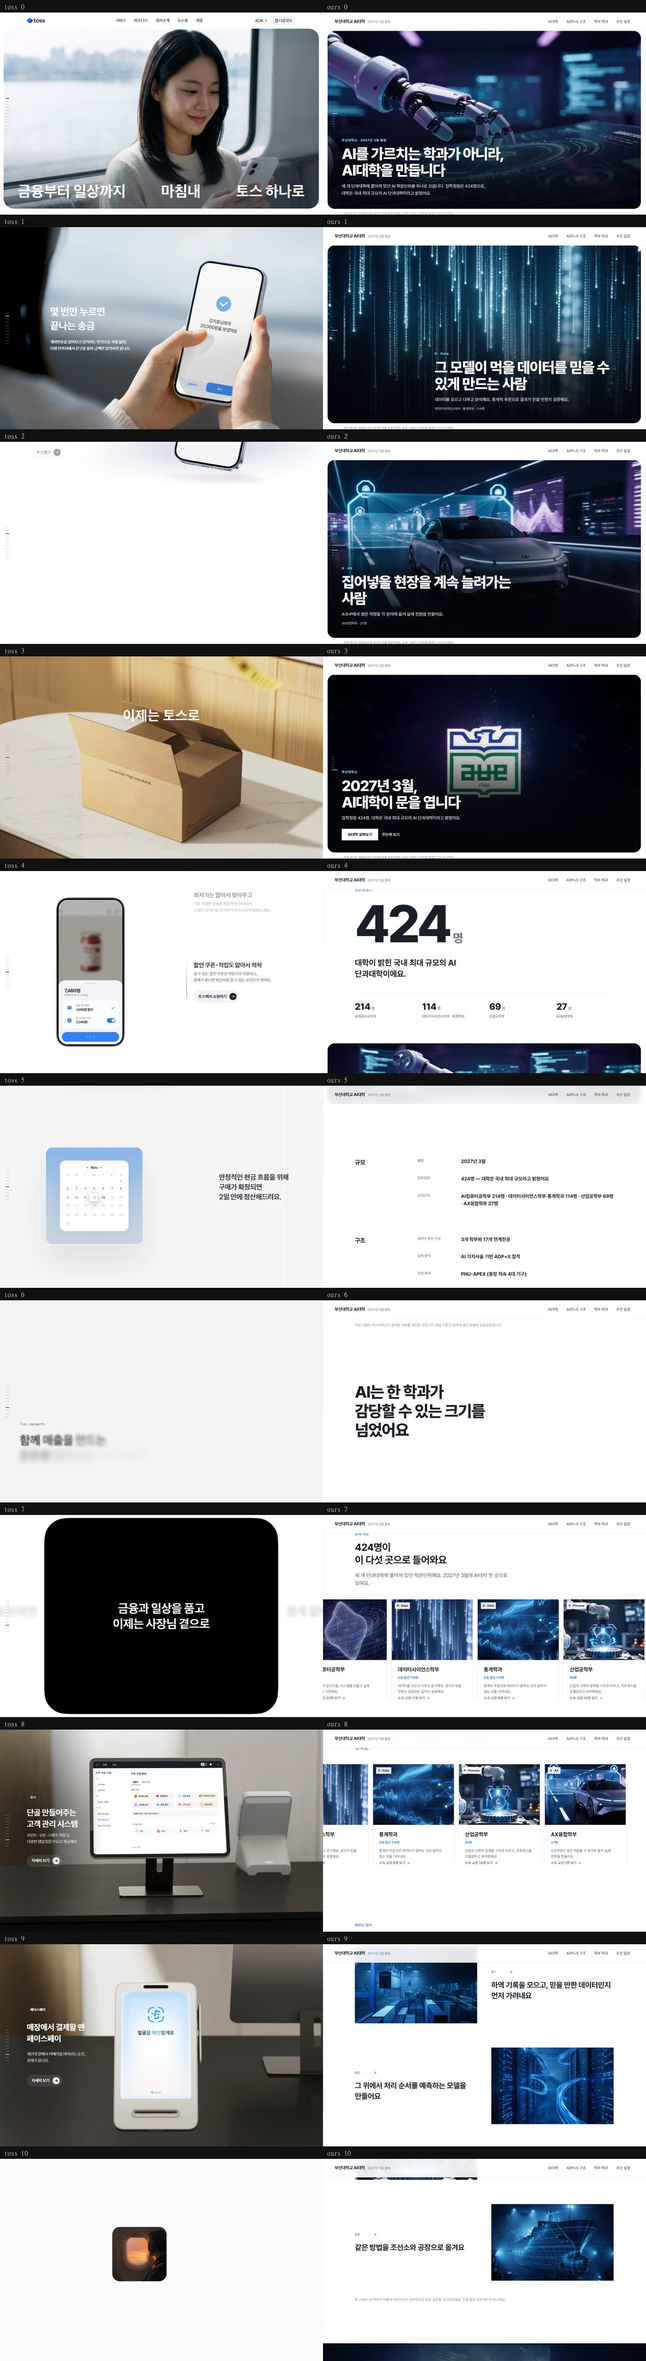
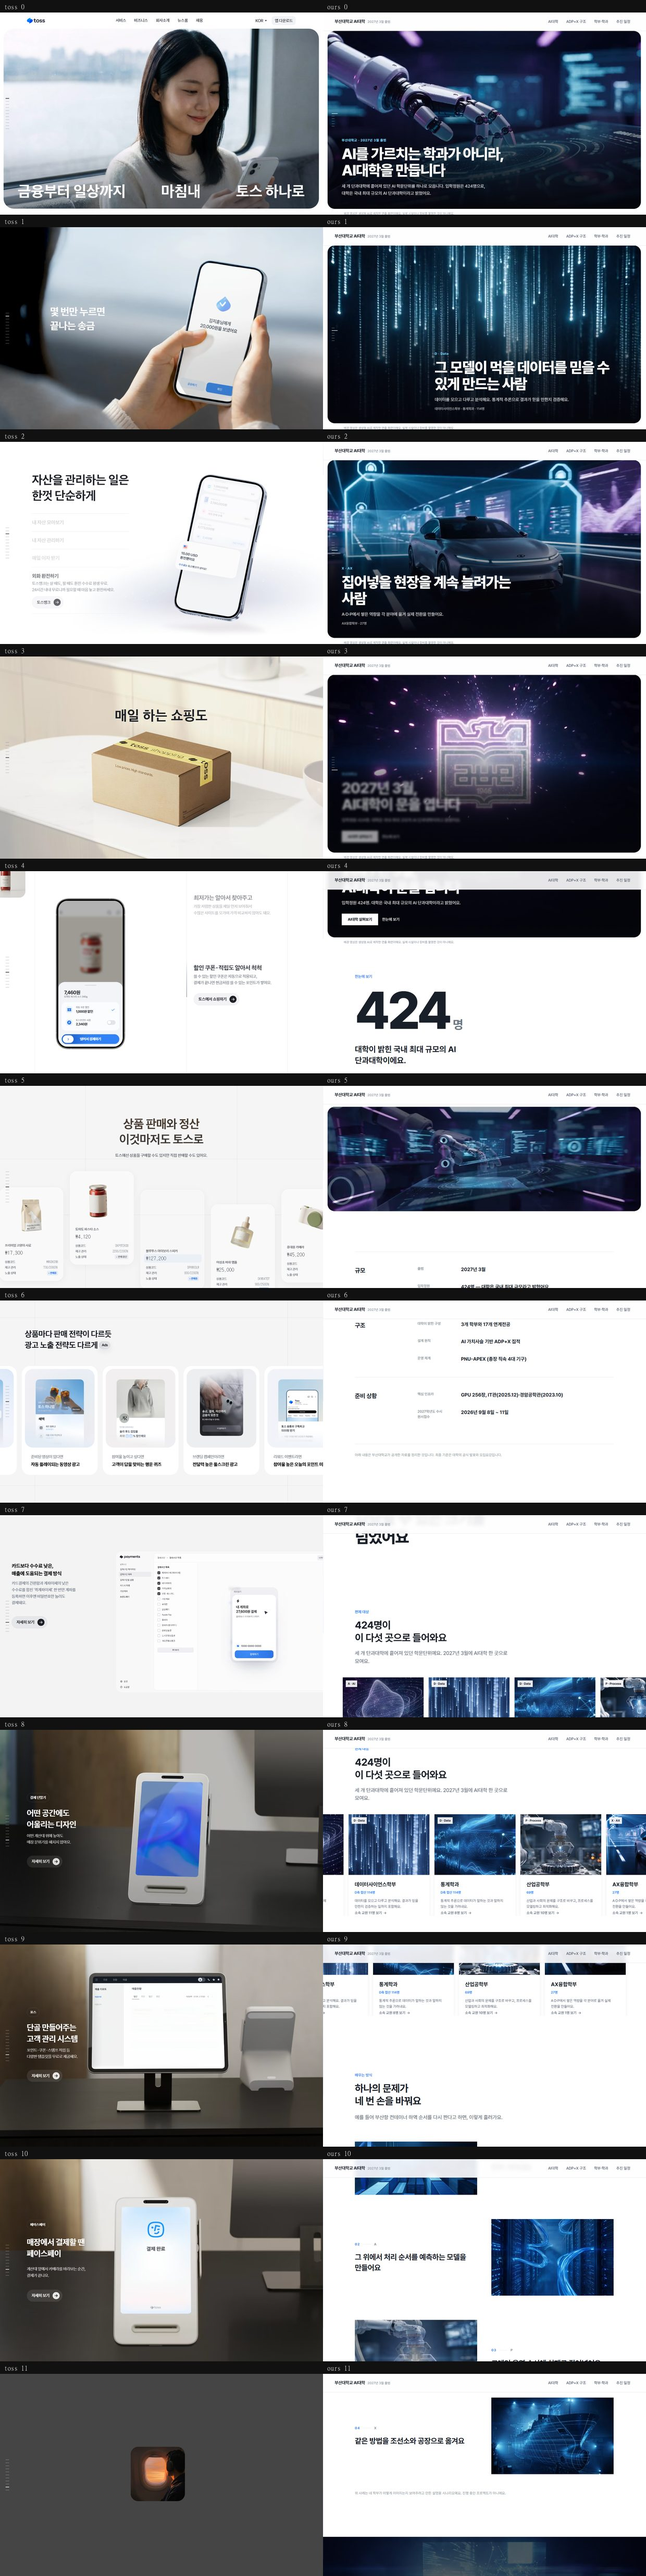
홈에 추진 일정을 넣는다
이 페이지는 「2027년 3월 출범」을 첫 화면부터 마지막 화면까지 내세우는데,
거기까지 어떻게 가는지는 홈에서 한 번도 말하지 않았다. 추진 일정이
/ai-college/roadmap 안쪽에만 있었다.

13회차에 히어로를 41% → 33% 로 줄이면서 "히어로를 더 줄이는 대신 뒤쪽 절을
늘리는 쪽이 남은 길" 이라고 적어뒀다. 그 첫 번째다.

[구도] 서브페이지는 이미 점과 선으로 잇는 세로 타임라인이다. 홈에서 같은
그림을 또 그리면 두 화면이 겹친다. 여기서는 행마다 왼쪽 여백을 8% 씩 밀어
계단으로 세운다. 2027 행만 브랜드색 선과 글자로 도드라지게 뒀다.

5열 그리드로 가로로 늘어놓는 안도 재봤는데 1280 폭에서 한 칸이 236px 라
한국어 본문이 서너 글자마다 끊긴다. 계단은 각 행이 폭을 다 쓴다. 좁은
화면에서는 들여쓰기를 걷는다 — 세로로 쌓인 상태에서 들여쓰기가 남으면
계단이 아니라 어긋난 목록으로 보인다.

앞에 roadmap_path 띠를 둔다. 11회차에 생성해두고 홈에서는 쓰지 않던
자산인데, 다섯 표식이 점점 커지며 올라가는 그림이라 아래 계단과 형태가
맞물린다.

[구조 정리] 마무리(강의실)를 ImpactScene 에서 ClosingScene 으로 분리했다.
추진 일정이 마무리 앞에 들어가야 하는데 둘이 한 파일에 있어 순서를 바꿀 수
없었다. 마무리는 페이지의 끝이다.

[곁가지] ImpactScene 의 alt 가 아직 "청록 경로선" 이라고 적혀 있었다.
11회차에 색을 브랜드 블루로 옮겼으니 화면에 없는 색이다. "파란" 으로 고쳤다.

Claude-Session: https://claude.ai/code/session_01DneFDYxx25DjwNJdj8uLH7

diff --git a/src/scenes/ImpactScene.jsx b/src/scenes/ImpactScene.jsx
@@ -16,16 +16,6 @@ import { useReducedMotion } from '../hooks/useMedia'
  *                    타일이다. 보여줄 제품 화면이 없다.
  *   근거 강도       : 직접관찰(프레임)
  *
- * [사람으로 닫는다] 마지막에 실제 사람이 있는 장면을 통으로 넣는다
- *   toss 씬        : 「토스가 바꾼 일상」
- *   캡처 파일       : assets/gap/home.jpg 행 6 (toss 열)
- *   원본에서 본 것  : 기능 설명이 끝난 뒤 마지막 화면이 사람 사진 넉 장이다.
- *                    앞의 모든 화면이 제품인데 끝은 사람이다.
- *   바꾼 것과 이유  : 우리 페이지에는 사람이 한 명도 없었다. 대학 홍보
- *                    페이지에서 이건 그 자체로 결함이다. toss 는 사진 넉 장을
- *                    쓰지만 우리는 강의실 한 장면을 통으로 쓴다. 앞 절이 이미
- *                    카드 줄이라 카드를 또 놓으면 같은 화면이 두 번 된다.
- *   근거 강도       : 직접관찰(프레임)
  *
  * ── 왜 이 절이 필요했나 ──────────────────────────────────────────────────
  * 배포본을 7단계로 재니 우리 행 0~3 이 전부 어두운 전면 영상이었다. 네 화면
@@ -45,10 +35,10 @@ import { useReducedMotion } from '../hooks/useMedia'
  *   X 조선소로 확산  → 조선소 도크
  */
 const MEDIA = {
-  D: { slug: 'port_crane_v', alt: '야간 컨테이너 터미널. 갠트리 크레인이 컨테이너를 내리고 청록 경로선이 야드 위를 흐른다.' },
-  A: { slug: 'gpu_rack_v', alt: '서버랙이 늘어선 냉복도. 청록 상태 표시등이 줄지어 깜빡인다.' },
+  D: { slug: 'port_crane_v', alt: '야간 컨테이너 터미널. 갠트리 크레인이 컨테이너를 내리고 파란 경로선이 야드 위를 흐른다.' },
+  A: { slug: 'gpu_rack_v', alt: '서버랙이 늘어선 냉복도. 파란 상태 표시등이 줄지어 깜빡인다.' },
   P: { slug: 'axis_p', alt: '산업용 로봇 팔이 기어를 제자리에 내려놓는다.' },
-  X: { slug: 'shipyard_v', alt: '야간 조선소 도크. 건조 중인 선체를 청록 계측선이 따라 훑는다.' },
+  X: { slug: 'shipyard_v', alt: '야간 조선소 도크. 건조 중인 선체를 파란 계측선이 따라 훑는다.' },
 }
 
 function Tile({ media, reduced }) {
@@ -80,7 +70,6 @@ export default function ImpactScene() {
   const reduced = useReducedMotion()
 
   return (
-    <>
       <section id="impact" className="band scroll-mt-24 bg-canvas" aria-labelledby="impact-title">
         <div className="edge">
           <p className="text-[15px] font-semibold text-brand">{CHAIN.eyebrow}</p>
@@ -121,50 +110,5 @@ export default function ImpactScene() {
           <p className="mt-16 max-w-[42rem] text-[14px] leading-[1.7] text-ink-faint">{CHAIN.caveat}</p>
         </div>
       </section>
-
-      {/* 사람으로 닫는다 */}
-      <section className="relative isolate overflow-hidden bg-[#0a0a14]" aria-labelledby="closing-title">
-        <div className="absolute inset-0">
-          {reduced ? (
-            <img
-              src={asset('img/lecture_v@2x.webp')}
-              alt=""
-              className="h-full w-full object-cover"
-              loading="lazy"
-              decoding="async"
-            />
-          ) : (
-            <video
-              aria-hidden="true"
-              className="h-full w-full object-cover"
-              poster={asset('img/lecture_v@2x.webp')}
-              autoPlay
-              muted
-              loop
-              playsInline
-              preload="metadata"
-            >
-              <source src={asset('video/lecture_v.webm')} type="video/webm" />
-              <source src={asset('video/lecture_v.mp4')} type="video/mp4" />
-            </video>
-          )}
-        </div>
-
-        <div aria-hidden="true" className="absolute inset-0 bg-[#05050c]/65" />
-
-        <div className="edge relative flex min-h-[70svh] flex-col justify-end py-24">
-          <p className="text-[13px] font-bold tracking-[0.08em] text-sky-300">2027년 3월</p>
-          <h2
-            id="closing-title"
-            className="mt-4 max-w-[26rem] text-[clamp(1.875rem,4.4vw,3.25rem)] font-extrabold leading-[1.15] tracking-[-0.03em] text-white"
-          >
-            그 모든 게 강의실에서 시작해요
-          </h2>
-          <p className="mt-5 max-w-[34rem] text-[16px] leading-[1.7] text-white/75">
-            424명이 한 단과대학 안에서 데이터부터 현장까지 한 바퀴를 다 돌아봐요.
-          </p>
-        </div>
-      </section>
-    </>
   )
 }

diff --git a/src/scenes/RoadmapScene.jsx b/src/scenes/RoadmapScene.jsx
@@ -1,0 +1,90 @@
+import { Link } from 'react-router-dom'
+import { ROADMAP } from '../data/content'
+import MediaBand from '../components/MediaBand'
+
+/*
+ * ── 왜 이 절이 필요했나 ──────────────────────────────────────────────────
+ * 이 페이지는 「2027년 3월 출범」을 첫 화면부터 마지막 화면까지 내세우는데,
+ * 거기까지 어떻게 가는지는 홈에서 한 번도 말하지 않았다. 추진 일정이
+ * /ai-college/roadmap 안쪽에만 있었다.
+ *
+ * 13회차에 히어로를 41% → 33% 로 줄이면서 "히어로를 더 줄이는 대신 뒤쪽 절을
+ * 늘리는 쪽이 남은 길" 이라고 적어뒀다. 그 첫 번째다.
+ *
+ * ── 구도 ──────────────────────────────────────────────────────────────────
+ * 서브페이지는 이미 점과 선으로 잇는 세로 타임라인이다. 홈에서 같은 그림을
+ * 또 그리면 두 화면이 겹친다. 여기서는 행마다 왼쪽 여백을 조금씩 밀어
+ * 계단으로 세운다. 자산(roadmap_path)이 다섯 표식이 점점 커지며 올라가는
+ * 그림이라 형태가 맞물린다.
+ *
+ * 5열 그리드로 가로로 늘어놓는 안도 재봤는데, 1280 폭에서 한 칸이 236px 라
+ * 한국어 본문이 서너 글자마다 끊긴다. 계단은 각 행이 폭을 다 쓴다.
+ *
+ * 좁은 화면에서는 들여쓰기를 걷는다. 세로로 쌓인 상태에서 들여쓰기가 남으면
+ * 계단이 아니라 어긋난 목록으로 보인다.
+ * ────────────────────────────────────────────────────────────────────────
+ */
+
+/** 행마다 미는 폭. 다섯 단계가 화면 3분의 1 안에서 올라간다. */
+const INDENT = ['md:ml-0', 'md:ml-[8%]', 'md:ml-[16%]', 'md:ml-[24%]', 'md:ml-[32%]']
+
+export default function RoadmapScene() {
+  return (
+    <>
+      <MediaBand
+        slug="roadmap_path_v"
+        ratio="aspect-[16/8] md:aspect-[21/8]"
+        alt="어두운 공간에 파란 길이 안쪽으로 이어지고, 그 위에 다섯 개의 표식이 점점 커지며 놓여 있다."
+      />
+
+      <section id="roadmap" className="band scroll-mt-24 bg-canvas" aria-labelledby="roadmap-title">
+        <div className="edge">
+          <p className="text-[15px] font-semibold text-brand">{ROADMAP.eyebrow}</p>
+          <h2 id="roadmap-title" className="h2 mt-4 text-ink">
+            {ROADMAP.title}
+          </h2>
+
+          <ol className="mt-14 md:mt-20">
+            {ROADMAP.steps.map((step, index) => (
+              <li key={step.year} className={`${INDENT[index]} max-w-[52rem]`}>
+                <div
+                  className={`grid gap-4 border-t py-8 md:grid-cols-[minmax(0,132px)_1fr] md:gap-10 md:py-10 ${
+                    step.highlight ? 'border-brand' : 'border-line'
+                  }`}
+                >
+                  <p
+                    className={`text-[clamp(1.75rem,3vw,2.25rem)] font-extrabold leading-none tracking-[-0.02em] ${
+                      step.highlight ? 'text-brand' : 'text-ink-faint'
+                    }`}
+                  >
+                    {step.year}
+                  </p>
+
+                  <div>
+                    <h3
+                      className={`text-[clamp(1.125rem,1.8vw,1.375rem)] font-bold leading-[1.4] ${
+                        step.highlight ? 'text-brand-strong' : 'text-ink'
+                      }`}
+                    >
+                      {step.title}
+                    </h3>
+                    <p className="mt-3 text-[15px] leading-[1.7] text-ink-muted md:text-[16px]">{step.body}</p>
+                  </div>
+                </div>
+              </li>
+            ))}
+          </ol>
+
+          <p className="mt-12 md:ml-[32%]">
+            <Link
+              to="/ai-college/roadmap"
+              className="text-[15px] font-semibold text-brand-strong underline-offset-4 hover:underline"
+            >
+              추진 일정과 원서접수 자세히 보기 →
+            </Link>
+          </p>
+        </div>
+      </section>
+    </>
+  )
+}

diff --git a/src/scenes/ClosingScene.jsx b/src/scenes/ClosingScene.jsx
@@ -1,0 +1,71 @@
+import { asset } from '../lib/asset'
+import { useReducedMotion } from '../hooks/useMedia'
+
+/*
+ * ── toss 출처 기록 ────────────────────────────────────────────────────────
+ *
+ * [사람으로 닫는다] 마지막에 실제 사람이 있는 장면을 통으로 넣는다
+ *   toss 씬        : 「토스가 바꾼 일상」
+ *   캡처 파일       : assets/gap/home.jpg 행 6 (toss 열, 7단계 캡처)
+ *   원본에서 본 것  : 기능 설명이 끝난 뒤 마지막 화면이 사람 사진 넉 장이다.
+ *                    앞의 모든 화면이 제품인데 끝은 사람이다.
+ *   바꾼 것과 이유  : 우리 페이지에는 사람이 한 명도 없었다. 대학 홍보
+ *                    페이지에서 이건 그 자체로 결함이다. toss 는 사진 넉 장을
+ *                    쓰지만 우리는 강의실 한 장면을 통으로 쓴다. 앞쪽에 이미
+ *                    학부 카드 줄과 부산항 타일이 있어 카드를 또 놓으면 같은
+ *                    화면이 세 번 된다.
+ *   근거 강도       : 직접관찰(프레임)
+ *
+ * 원래 ImpactScene 안에 있었다. 14회차에 추진 일정 절을 마무리 앞에 끼우면서
+ * 따로 뺐다. 마무리는 페이지의 끝이어야 해서 순서를 바꿀 수 없었다.
+ * ────────────────────────────────────────────────────────────────────────
+ */
+
+export default function ClosingScene() {
+  const reduced = useReducedMotion()
+
+  return (
+    <section className="relative isolate overflow-hidden bg-[#0a0a14]" aria-labelledby="closing-title">
+      <div className="absolute inset-0">
+        {reduced ? (
+          <img
+            src={asset('img/lecture_v@2x.webp')}
+            alt=""
+            className="h-full w-full object-cover"
+            loading="lazy"
+            decoding="async"
+          />
+        ) : (
+          <video
+            aria-hidden="true"
+            className="h-full w-full object-cover"
+            poster={asset('img/lecture_v@2x.webp')}
+            autoPlay
+            muted
+            loop
+            playsInline
+            preload="metadata"
+          >
+            <source src={asset('video/lecture_v.webm')} type="video/webm" />
+            <source src={asset('video/lecture_v.mp4')} type="video/mp4" />
+          </video>
+        )}
+      </div>
+
+      <div aria-hidden="true" className="absolute inset-0 bg-[#05050c]/65" />
+
+      <div className="edge relative flex min-h-[70svh] flex-col justify-end py-24">
+        <p className="text-[13px] font-bold tracking-[0.08em] text-sky-300">2027년 3월</p>
+        <h2
+          id="closing-title"
+          className="mt-4 max-w-[26rem] text-[clamp(1.875rem,4.4vw,3.25rem)] font-extrabold leading-[1.15] tracking-[-0.03em] text-white"
+        >
+          그 모든 게 강의실에서 시작해요
+        </h2>
+        <p className="mt-5 max-w-[34rem] text-[16px] leading-[1.7] text-white/75">
+          424명이 한 단과대학 안에서 데이터부터 현장까지 한 바퀴를 다 돌아봐요.
+        </p>
+      </div>
+    </section>
+  )
+}

diff --git a/src/pages/Home.jsx b/src/pages/Home.jsx
@@ -4,6 +4,8 @@ import FactSheetScene from '../scenes/FactSheetScene'
 import BreatherScene from '../scenes/BreatherScene'
 import SchoolRailScene from '../scenes/SchoolRailScene'
 import ImpactScene from '../scenes/ImpactScene'
+import RoadmapScene from '../scenes/RoadmapScene'
+import ClosingScene from '../scenes/ClosingScene'
 
 export default function Home() {
 
@@ -22,6 +24,10 @@ export default function Home() {
       <SchoolRailScene />
 
       <ImpactScene />
+
+      <RoadmapScene />
+
+      <ClosingScene />
     </>
   )
 }
